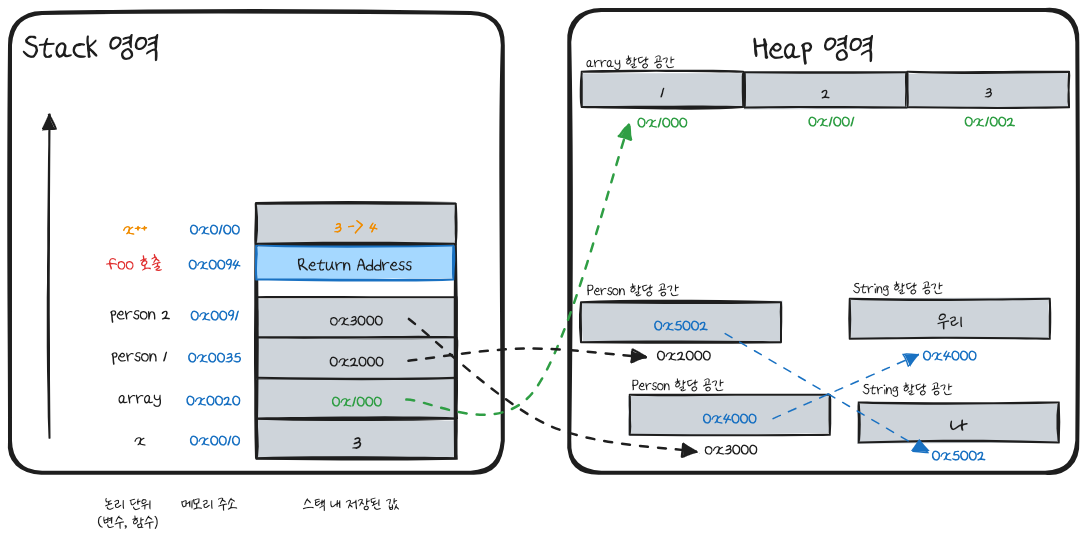
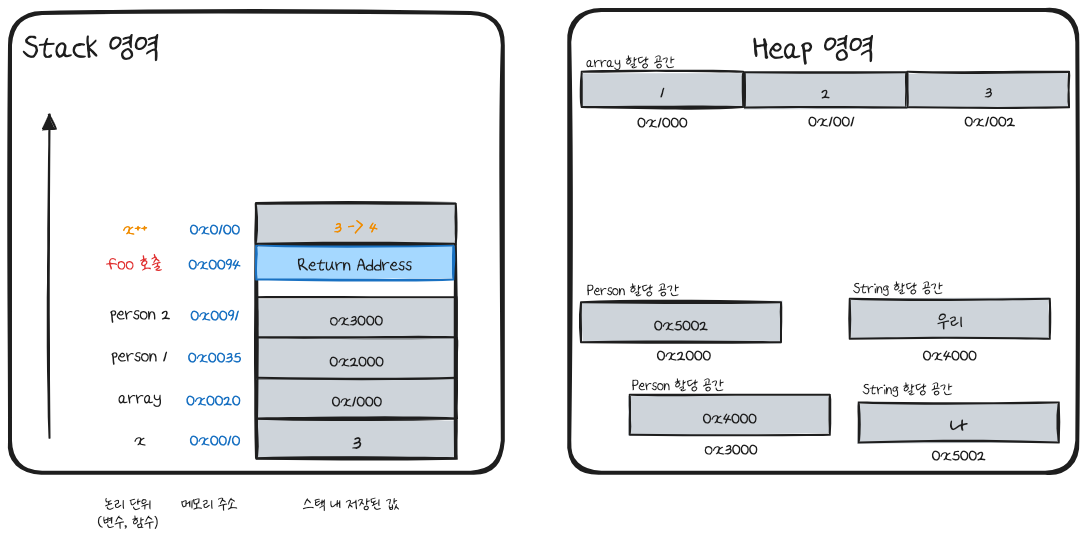
docs: 추가 설명을 위한 그림 추가

diff --git a/technical_writing.md b/technical_writing.md
@@ -323,6 +323,22 @@ person2.name: 바뀐 우리
 이를 바탕으로 어떤 일이 일어났는지 메모리 공간을 통해 알아보자.
 Stack 영역의 메모리 주소에서 검정 글씨는 `main()` 함수에서 일어난 변경을, 빨간 글씨는 `foo()` 함수에서 일어난 변경을 나타낸다.
 
+### 0. 변수 생성
+```java
+public static void main(String[] args) {
+    int x = 3;
+    int[] array = {1, 2, 3};
+    Person person1 = new Person("나");
+    Person person2 = new Person("우리");
+}
+```
+![img_1.png](img/java-memory-ex2-object.png)
+
+우선 `main()` 함수에서 생성된 데이터들을 메모리에 나타내었다.
+각각의 화살표는 참조하고 있는 메모리 주소를 나타낸다.
+
+이제 `foo()` 함수 내부에서의 동작을 알아보자.
+
 ### 1. 원시 타입 x
 ```java
 private void foo(int x) {
@@ -339,7 +355,7 @@ private void foo(int[] array) {
     array[0]++;
 }
 ```
-![img.png](img/java-memory-ex-2-array.png)
+![java-memory-ex-2-array.png](img/java-memory-ex-2-array.png)
 앞서 참조 타입은 생성된 객체 내에 접근하여 값을 변경하는 것이 가능하다고 설명하였다.
 참조 타입은 스택 안에 Heap 영역에서 할당된 메모리 주소를 저장하고 있기 때문에 실제 저장된 값의 변경이 일어난다.
 <br/>
